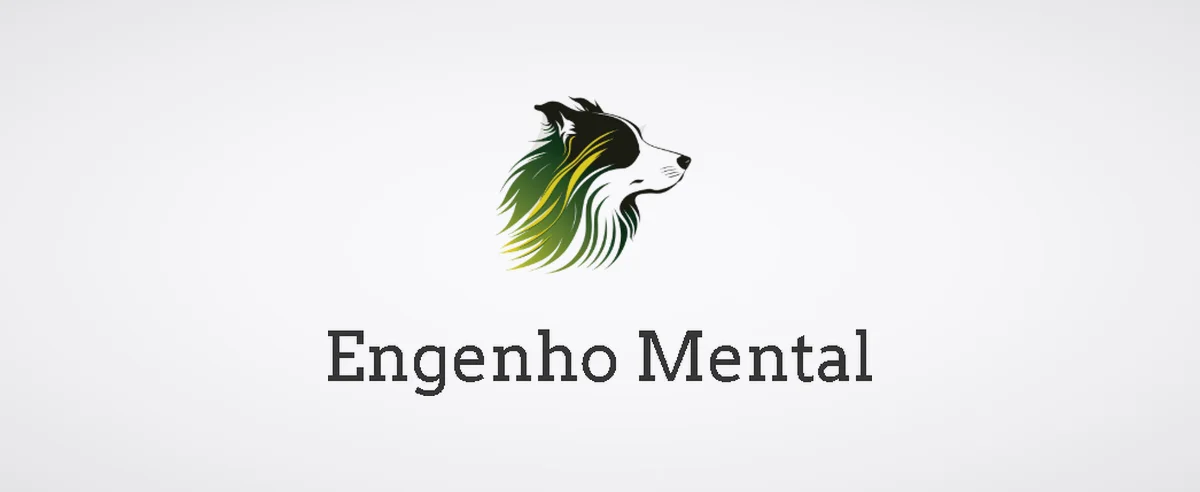
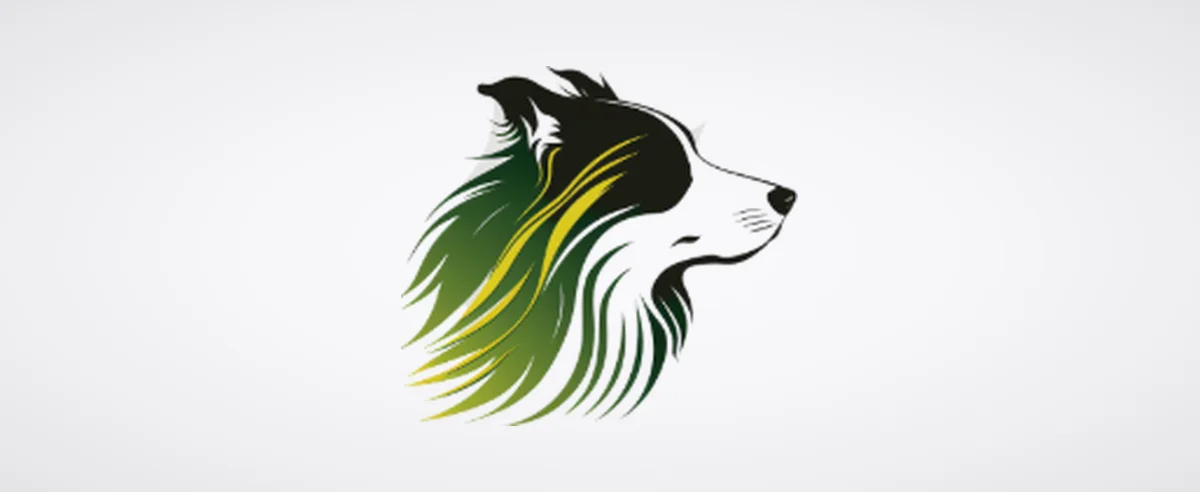
Capa do Engenho Mental somente com o símbolo
Claude-Session: https://claude.ai/code/session_01RjAyFE22sfAnTy89Y7pjqg

Changed region(s): [[0.2775, 0.122, 0.74, 0.8841]]

diff --git a/index.html b/index.html
@@ -151,7 +151,7 @@ standalone: true
 
                 <!-- Case: Engenho Mental (projeto autoral) -->
                 <div class="project-card">
-                    <div class="project-image project-image--photo" role="img" aria-label="Logotipo do Engenho Mental" style="background-image: url('{{ '/assets/img/cases/engenho-mental.webp' | relative_url }}');"></div>
+                    <div class="project-image project-image--photo" role="img" aria-label="Símbolo do Engenho Mental, um cão de pelagem verde" style="background-image: url('{{ '/assets/img/cases/engenho-mental.webp' | relative_url }}');"></div>
                     <div class="project-info">
                         <div class="tag-group">
                             <span class="tag">Projeto autoral</span>

diff --git a/cases.html b/cases.html
@@ -48,7 +48,7 @@ css: cases
 
                 <!-- Case: Engenho Mental (projeto autoral) -->
                 <div class="project-card">
-                    <div class="project-image project-image--photo" role="img" aria-label="Logotipo do Engenho Mental" style="background-image: url('{{ '/assets/img/cases/engenho-mental.webp' | relative_url }}');"></div>
+                    <div class="project-image project-image--photo" role="img" aria-label="Símbolo do Engenho Mental, um cão de pelagem verde" style="background-image: url('{{ '/assets/img/cases/engenho-mental.webp' | relative_url }}');"></div>
                     <div class="project-info">
                         <div class="tag-group">
                             <span class="tag">Projeto autoral</span>
